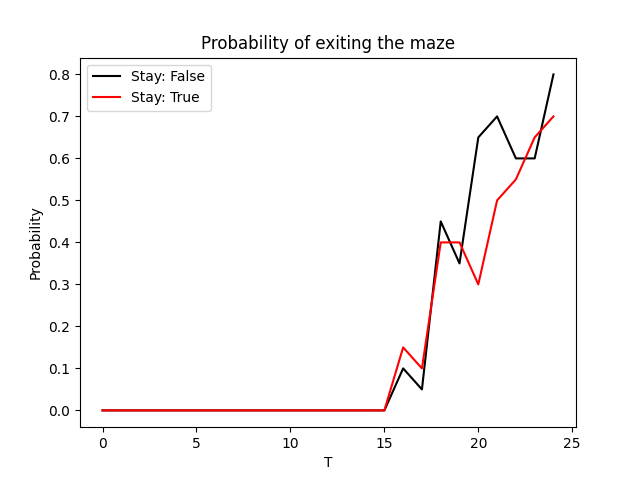
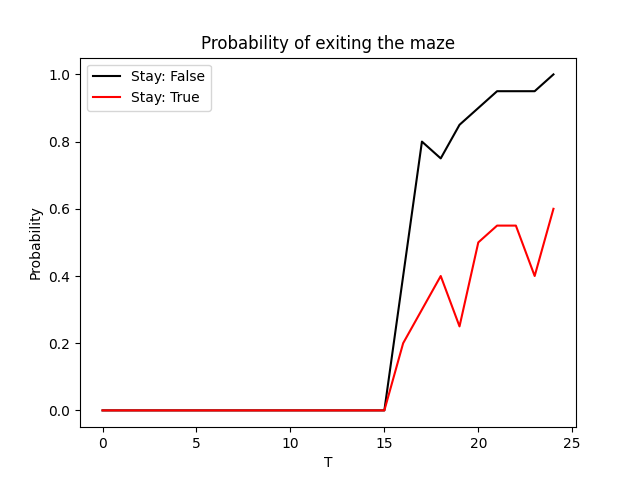
Fixed a bug with prob. plot

diff --git a/Lab_1/problem_1.py b/Lab_1/problem_1.py
@@ -70,7 +70,7 @@ def main():
         start  = ((0,0),(6,5))  # ((Player_pose),(Minotaur_pose))
 
         for i in range(len(can_stay)):
-            env = mz.Maze(maze, can_stay=can_stay)
+            env = mz.Maze(maze, can_stay=can_stay[i])
             x_vec = list()
             y_vec = list()
             print(can_stay[i])
